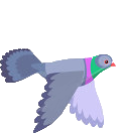
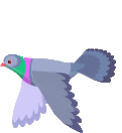
Added pigeon class and updated pigeon images

diff --git a/js/game.js b/js/game.js
@@ -12,11 +12,24 @@ const START_SPACE = 30
 async function init() {
     await setup_canvas()
 
+
     const result = await Promise.allSettled([
         //load_image(canvas.toDataURL()),
         load_image('images/background.jpg'),
         load_image('images/bread.png'),
         load_image('images/brick.jpg'),
+        load_image('images/pigeon1.png'),
+        load_image('images/pigeon2.png'),
+        load_image('images/pigeon3.png'),
+        load_image('images/pigeon4.png'),
+        load_image('images/pigeon5.png'),
+        load_image('images/pigeon6.png'),
+        load_image('images/pigeon-wBread1.png'),
+        load_image('images/pigeon-wBread2.png'),
+        load_image('images/pigeon-wBread3.png'),
+        load_image('images/pigeon-wBread4.png'),
+        load_image('images/pigeon-wBread5.png'),
+        load_image('images/pigeon-wBread6.png'),
     ])
 
     result.forEach((img) => {
@@ -52,6 +65,25 @@ async function init() {
         image: images.bread })
     actors['player'] = player
 
+    let p_imgs = []
+    let p_imgs_b = []
+
+    for (let i = 0, b = false; i < 6;) {
+        if (!b) p_imgs.push(images['pigeon' + (i + 1)])
+        else p_imgs_b.push(images['pigeon-wBread' + (i + 1)])
+
+        if (++i == 6 && !b) {
+            i = 0; b = true
+        }
+    }
+
+    actors['pigeon'] = new Pigeon({
+        x: canvas.width + GAP_LENGTH,
+        y: GAP_LENGTH,
+        images: p_imgs,
+        images_b: p_imgs_b,
+    })
+
 
     inplay = true
     animate()
@@ -84,6 +116,15 @@ function animate() {
             && player.can_run(player.direction))
         move_game()
 
+    if (!actors.pigeon.state) {
+        actors.pigeon.x = canvas.width + GAP_LENGTH
+        actors.pigeon.y = GAP_LENGTH
+        actors.pigeon.state = 1
+    }
+
+    if (actors.pigeon.state && actors.pigeon.x < -GAP_LENGTH)
+        actors.pigeon.state = 0
+
     Object.entries(actors).forEach(([_, value]) => {
         if (Array.isArray(value)) {
             value.forEach(el => el.update())
@@ -104,7 +145,9 @@ function move_game() {
         b.x -= player.direction
     })
 
-    actors.p_sets.forEach(p => p.move(player) )
+    actors.p_sets.forEach(p => p.move(player))
+
+    if (actors.pigeon) actors.pigeon.x -= player.direction * player.speed
 }
 
 function is_game_over() {

diff --git a/js/class.js b/js/class.js
@@ -66,6 +66,47 @@ class Background extends Actor {
     }
 }
 
+class Pigeon extends Actor {
+    constructor(prop = {}) {
+        super(prop)
+        this.width = 105
+        this.height = 114
+        this.images = prop.images
+        this.images_b = prop.images_b
+        this.image_index = 0
+        this.has_hit_player = false
+        this.direction = 1
+        this.state = 0
+        this.flap_rate = 5
+    }
+
+    act() {
+
+        if (!this.has_hit_player) {
+            this.image = this.images[
+                Math.floor(this.image_index++ / this.flap_rate)]
+        } else {
+            this.image = this.images_b[
+                Math.floor(this.image_index++ / this.flap_rate)]
+        }
+
+        if (this.image_index >= this.images.length * this.flap_rate)
+            this.image_index = 0
+
+        this.fly()
+
+        // TODO: player collision
+        // when hit change width = 115
+
+        return this
+    }
+
+    fly() {
+        this.x -= 5
+        this.y += (this.x > middle ? 1 : this.x > middle - GAP_LENGTH ? 0 : 1)
+    }
+}
+
 // QUESTION: removing actors from world?
 
 class Platform_Set extends Actor {
